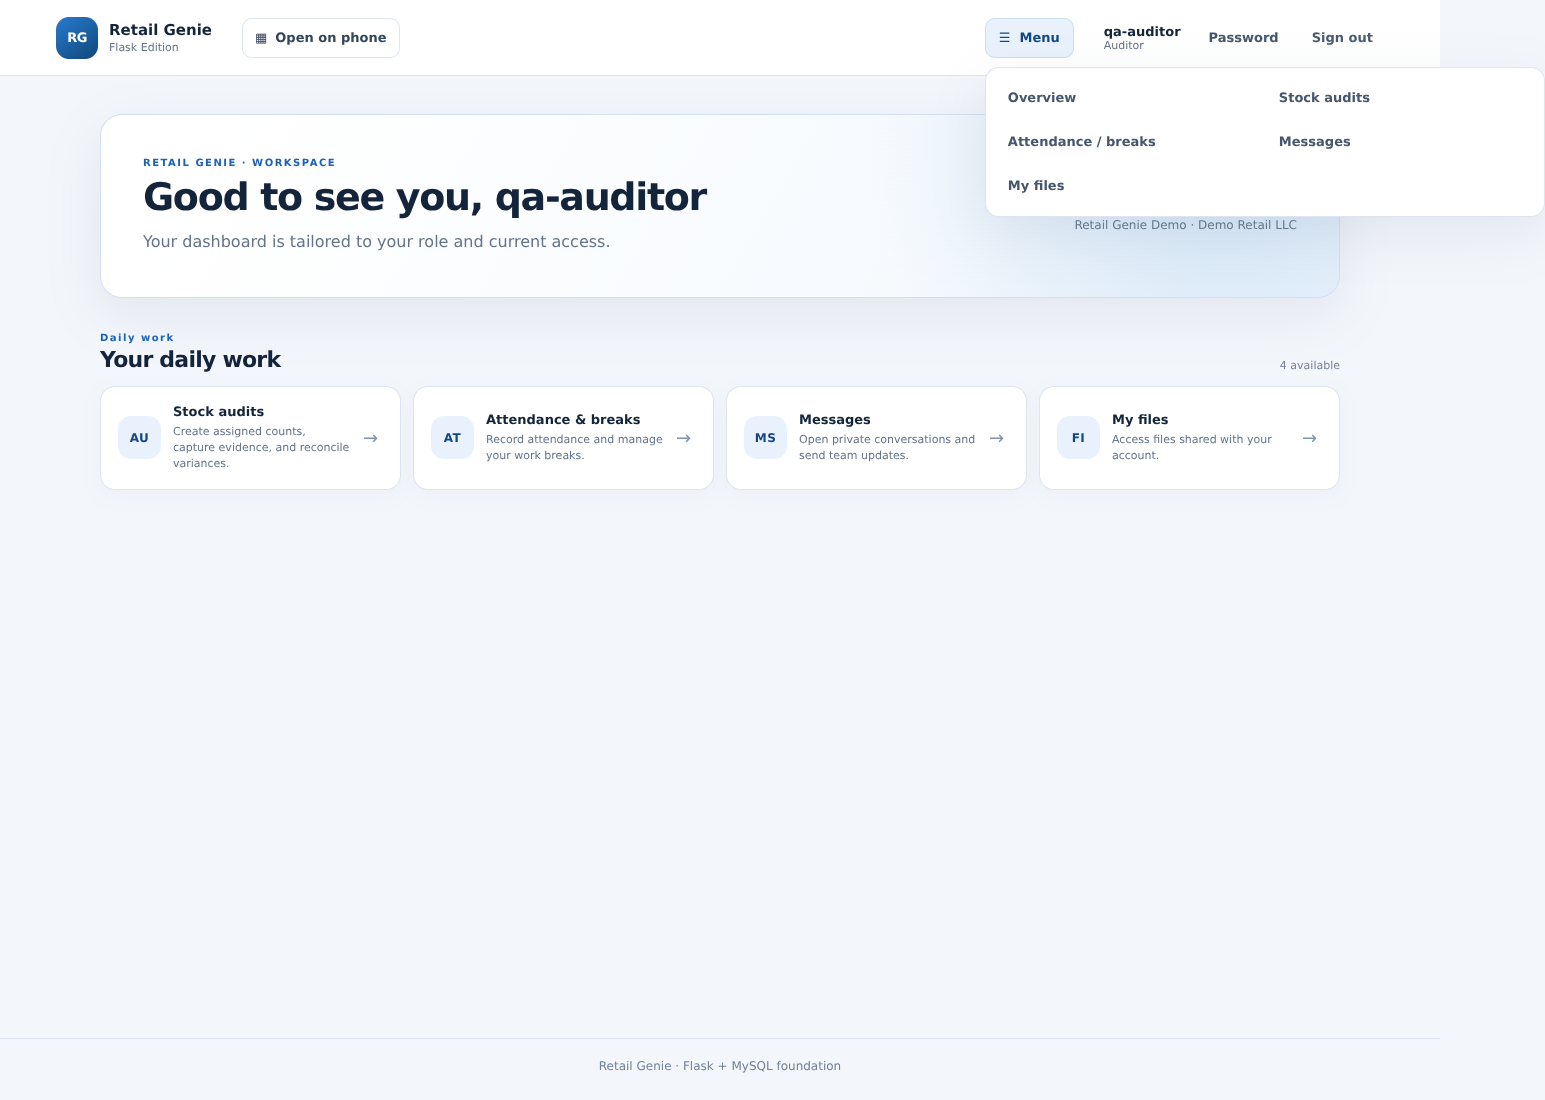
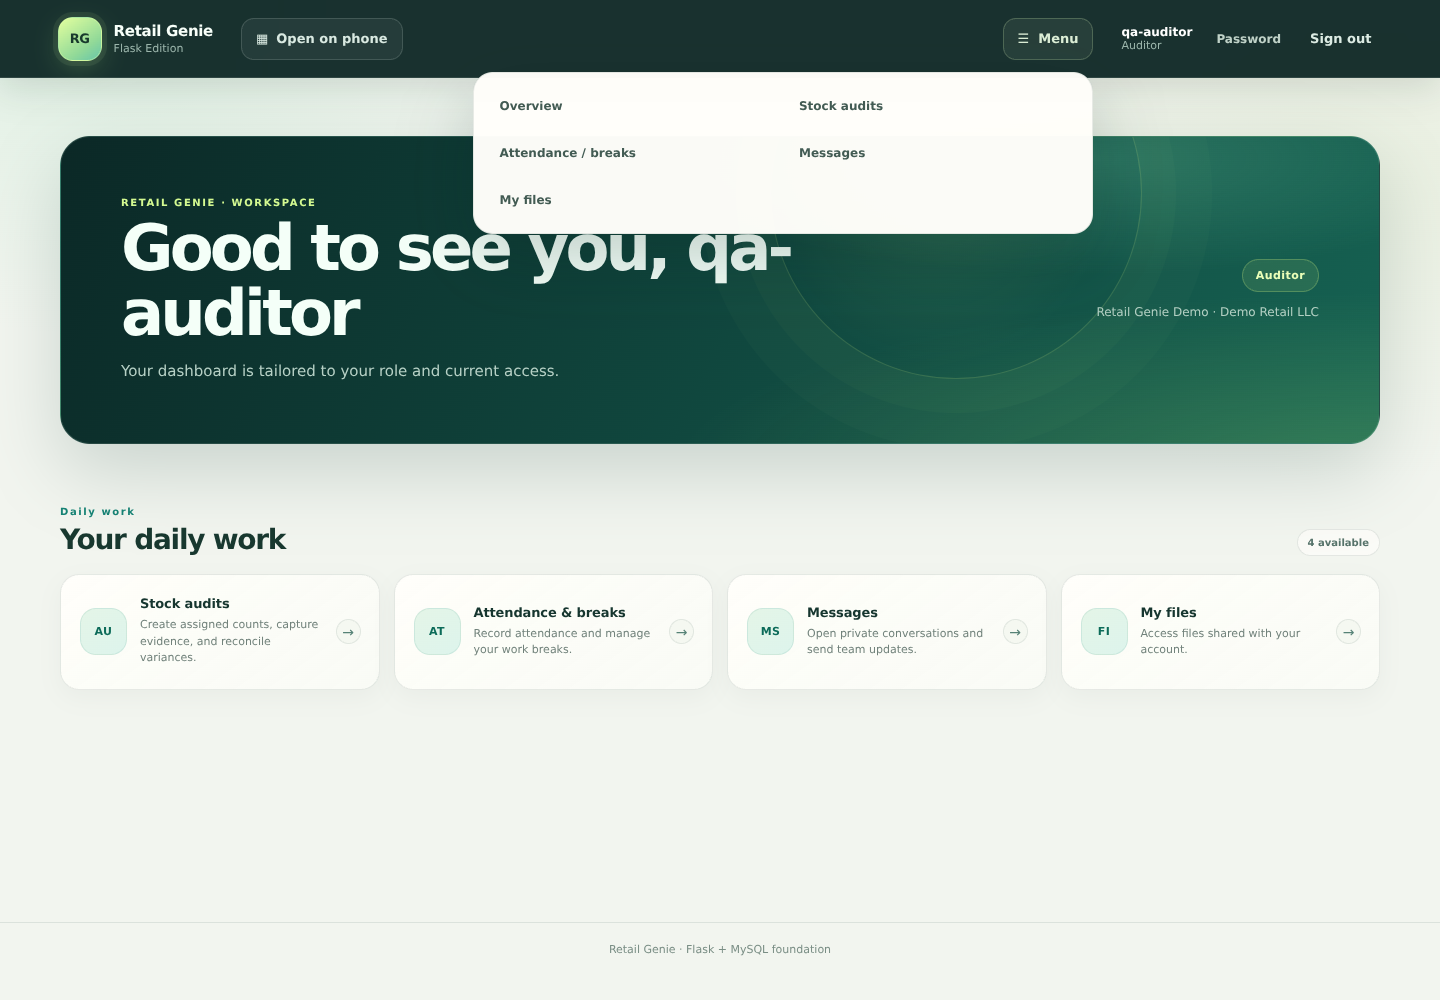
Refresh Retail Genie interface with modern forest theme

diff --git a/Retail Genie Final/retail_genie/static/css/app.css b/Retail Genie Final/retail_genie/static/css/app.css
@@ -1,20 +1,20 @@
 /* The UI deliberately uses local/system fonts and static assets only: no Node build and no CDN dependency. */
 :root {
   color-scheme: light;
-  --ink: #14243b;
-  --muted: #63738a;
-  --line: #dce5f0;
-  --surface: #ffffff;
-  --canvas: #f3f6fb;
-  --blue: #1d62b3;
-  --blue-dark: #14477f;
-  --blue-pale: #e9f2fc;
-  --green: #16845b;
-  --green-pale: #e7f6ee;
-  --red: #ba3840;
-  --red-pale: #fff0f0;
-  --shadow: 0 18px 55px rgba(17, 44, 77, .08);
-  font-family: "Segoe UI", Arial, sans-serif;
+  --ink: #132725;
+  --muted: #61736f;
+  --line: rgba(19, 55, 49, .13);
+  --surface: #fffefa;
+  --canvas: #f2f5ef;
+  --blue: #147b6d;
+  --blue-dark: #0d554d;
+  --blue-pale: #e2f4ed;
+  --green: #4e8d2f;
+  --green-pale: #edf7df;
+  --red: #b83c4a;
+  --red-pale: #fff0ef;
+  --shadow: 0 22px 70px rgba(20, 54, 47, .09);
+  font-family: "Segoe UI Variable", "Aptos", "Inter", "Segoe UI", sans-serif;
 }
 
 * { box-sizing: border-box; }
@@ -184,6 +184,7 @@ td form { margin: 0; }
 }
 @media (max-width: 600px) {
   .topbar { flex-wrap: wrap; gap: 7px 12px; padding: 11px 16px; }
+  .app-qr { display: none; }
   .brand { margin-right: auto; }
   .nav-menu { order: 3; width: 100%; margin: 0; }
   .nav-menu[open] .main-nav { position: static; grid-template-columns: 1fr; width: 100%; max-height: 55vh; margin-top: 8px; padding: 6px; box-shadow: none; }
@@ -397,4 +398,170 @@ td form { margin: 0; }
   .nav-menu[open] .main-nav { grid-template-columns: 1fr; }
   .workspace-card { min-height: 92px; padding: 13px; }
   .workspace-card-grid { grid-template-columns: minmax(0, 1fr); }
+}
+
+/* Retail Genie 2026 visual refresh — calm mineral neutrals, forest glass and citron accents. */
+:root {
+  --citron: #d9fa83;
+  --forest: #0d2c29;
+  --forest-soft: #174b43;
+  --mint: #c3f3df;
+  --shadow: 0 24px 72px rgba(15, 48, 42, .095);
+}
+
+::selection { color: #092c26; background: #d9fa83; }
+body {
+  color: var(--ink);
+  background:
+    radial-gradient(ellipse at 8% 0%, rgba(213, 238, 221, .7), transparent 28rem),
+    radial-gradient(ellipse at 94% 18%, rgba(226, 235, 213, .58), transparent 31rem),
+    var(--canvas);
+  background-attachment: fixed;
+  font-feature-settings: "ss01" on;
+  -webkit-font-smoothing: antialiased;
+}
+.topbar {
+  position: sticky;
+  top: 0;
+  z-index: 40;
+  min-height: 78px;
+  gap: clamp(14px, 2vw, 28px);
+  padding-inline: clamp(18px, 4vw, 64px);
+  color: #f2fff7;
+  border-bottom: 1px solid rgba(235, 255, 244, .11);
+  background: rgba(12, 37, 35, .94);
+  box-shadow: 0 10px 35px rgba(8, 30, 27, .13);
+  backdrop-filter: blur(20px) saturate(1.2);
+  -webkit-backdrop-filter: blur(20px) saturate(1.2);
+}
+.brand { color: #f2fff7; gap: 12px; }
+.brand:hover { color: #fff; }
+.brand-mark {
+  width: 44px; height: 44px; border: 1px solid rgba(219, 255, 164, .42);
+  border-radius: 15px; color: #183a2d;
+  background: linear-gradient(145deg, #e3ff9e, #91d998 68%, #66c5aa);
+  box-shadow: 0 0 0 5px rgba(198, 247, 153, .08), 0 8px 24px rgba(164, 226, 124, .2);
+}
+.brand strong { color: #f7fff9; font-size: 15px; letter-spacing: -.02em; }
+.brand small, .account-name small { color: #9bb5ab; }
+.app-qr-toggle, .nav-menu-toggle {
+  min-height: 42px; padding: 9px 14px; color: #d9e9e1;
+  border-color: rgba(228, 248, 237, .15); border-radius: 13px;
+  background: rgba(255, 255, 255, .055); transition: .18s ease;
+}
+.app-qr-toggle:hover, .nav-menu-toggle:hover, .app-qr[open] .app-qr-toggle, .nav-menu[open] .nav-menu-toggle {
+  color: #eaffb9; border-color: rgba(217, 250, 131, .4); background: rgba(217, 250, 131, .1);
+}
+.nav-menu[open] .main-nav {
+  top: calc(100% + 12px); left: auto; right: 0; width: min(620px, calc(100vw - 28px));
+  gap: 5px; padding: 12px; border: 1px solid rgba(19, 55, 49, .1); border-radius: 20px;
+  background: rgba(255, 254, 250, .98); box-shadow: 0 26px 70px rgba(6, 35, 30, .22);
+  backdrop-filter: blur(18px);
+}
+.main-nav a, .quiet-link { min-height: 42px; padding: 10px 13px; border-radius: 12px; color: #425b53; font-size: 12px; }
+.main-nav a:hover, .quiet-link:hover { color: #0b564b; background: #e6f4e9; }
+.account-nav { gap: 5px; }
+.account-name { color: #fff; font-size: 12px; }
+.account-nav .quiet-link { color: #c0d2c8; }
+.account-nav .quiet-link:hover { color: #eaffb9; background: rgba(217, 250, 131, .1); }
+.account-nav .button-quiet { min-height: 38px; color: #dcebe3; border: 1px solid transparent; border-radius: 11px; }
+.account-nav .button-quiet:hover { color: #eaffb9; background: rgba(217, 250, 131, .1); }
+.app-qr-popover { border-color: rgba(19, 55, 49, .11); border-radius: 19px; box-shadow: 0 25px 70px rgba(6, 35, 30, .2); }
+.page-shell { width: min(1320px, calc(100% - 48px)); min-height: calc(100vh - 156px); padding: clamp(30px, 5vw, 58px) 0 76px; }
+.site-footer { color: #7a8e85; border-color: rgba(19, 55, 49, .1); font-size: 11px; }
+h1, h2, h3 { color: #16322d; letter-spacing: -.045em; }
+h1 { font-size: clamp(30px, 4vw, 44px); }
+.eyebrow { color: #168375; letter-spacing: .16em; }
+.card {
+  border-color: rgba(19, 55, 49, .1); border-radius: 20px;
+  background: rgba(255, 254, 250, .9); box-shadow: 0 12px 42px rgba(25, 57, 49, .055);
+  backdrop-filter: blur(8px);
+}
+.button { min-height: 42px; border-radius: 12px; transition: transform .18s ease, box-shadow .18s ease, background .18s ease; }
+.button:hover { transform: translateY(-2px); }
+.button-primary {
+  color: #f7fff9; border-color: #12685c;
+  background: linear-gradient(135deg, #158a75, #0f675c 78%);
+  box-shadow: 0 7px 18px rgba(14, 112, 95, .18);
+}
+.button-primary:hover { color: #fff; background: linear-gradient(135deg, #15967e, #0d5b52); box-shadow: 0 11px 25px rgba(14, 112, 95, .25); }
+.button-secondary { color: #0d6358; border-color: #c8e5d7; background: #e8f5ed; }
+.button-secondary:hover { color: #084c44; background: #daf0e3; }
+.control, .catalog-filter-form select, .catalog-filter-form input, .catalog-create-form .form-control {
+  min-height: 44px; border-color: rgba(19, 55, 49, .16); border-radius: 12px;
+  color: var(--ink); background: #fffefa; transition: border-color .16s ease, box-shadow .16s ease;
+}
+.control:focus, .catalog-filter-form select:focus, .catalog-filter-form input:focus, .catalog-create-form .form-control:focus {
+  border-color: #54b49a; box-shadow: 0 0 0 4px rgba(42, 160, 127, .12);
+}
+.flash { border-radius: 13px; box-shadow: 0 5px 18px rgba(18, 46, 39, .04); }
+.pill { border: 1px solid rgba(19, 55, 49, .06); }
+th { color: #70847b; }
+td { color: #344e46; }
+th, td { border-bottom-color: rgba(19, 55, 49, .08); }
+
+.workspace-hero {
+  position: relative; isolation: isolate; overflow: hidden;
+  min-height: 250px; margin-bottom: clamp(36px, 6vw, 62px); padding: clamp(28px, 5vw, 60px);
+  border: 1px solid rgba(195, 243, 223, .15); border-radius: 30px;
+  color: #f4fff8;
+  background:
+    radial-gradient(ellipse at 78% 7%, rgba(109, 202, 162, .28), transparent 29%),
+    radial-gradient(ellipse at 100% 110%, rgba(176, 236, 111, .21), transparent 38%),
+    linear-gradient(118deg, #0b2826 0%, #10473e 52%, #166353 100%);
+  box-shadow: 0 28px 75px rgba(10, 58, 48, .18);
+}
+.workspace-hero::after {
+  position: absolute; z-index: -1; top: -130px; right: 18%; width: 370px; height: 370px;
+  border: 1px solid rgba(217, 250, 131, .17); border-radius: 50%;
+  background: radial-gradient(circle at 45% 50%, rgba(217, 250, 131, .09), transparent 62%);
+  box-shadow: 0 0 0 34px rgba(217, 250, 131, .025), 0 0 0 70px rgba(217, 250, 131, .018);
+  content: ""; pointer-events: none;
+}
+.workspace-hero-copy, .workspace-context { position: relative; z-index: 1; }
+.workspace-hero .eyebrow { color: #d4fa91; }
+.workspace-hero h1 { max-width: 840px; margin-bottom: 12px; color: #f4fff8; font-size: clamp(37px, 5.2vw, 64px); line-height: 1.02; letter-spacing: -.06em; }
+.workspace-hero .muted { color: #b6d0c5; font-size: 15px; }
+.workspace-context { gap: 11px; max-width: 260px; }
+.workspace-role { padding: 9px 13px; color: #eaffb8; border: 1px solid rgba(217, 250, 131, .24); background: rgba(217, 250, 131, .1); font-size: 11px; letter-spacing: .04em; }
+.workspace-tenant { color: #b2cfc2; font-size: 12px; line-height: 1.5; }
+.workspace-section { margin-bottom: clamp(34px, 5vw, 55px); }
+.workspace-section-heading { align-items: end; margin-bottom: 18px; }
+.workspace-section-heading h2 { color: #18382f; font-size: clamp(22px, 2.5vw, 28px); }
+.workspace-section-heading .eyebrow { margin-bottom: 6px; }
+.workspace-count { padding: 7px 10px; color: #56736a; border: 1px solid rgba(19, 55, 49, .1); border-radius: 999px; background: rgba(255, 254, 250, .72); font-size: 10px; font-weight: 700; }
+.workspace-card-grid { grid-template-columns: repeat(auto-fit, minmax(min(100%, 280px), 1fr)); gap: 14px; }
+.workspace-card {
+  position: relative; overflow: hidden; grid-template-columns: 48px minmax(0, 1fr) 24px;
+  min-height: 116px; padding: 19px; border: 1px solid rgba(19, 55, 49, .1); border-radius: 19px;
+  color: var(--ink); background: linear-gradient(145deg, rgba(255, 254, 250, .98), rgba(250, 252, 246, .92));
+  box-shadow: 0 8px 24px rgba(25, 57, 49, .045);
+  transition: transform .2s cubic-bezier(.2,.8,.2,1), border-color .2s ease, box-shadow .2s ease, background .2s ease;
+}
+.workspace-card::before { position: absolute; inset: 0 auto 0 0; width: 3px; background: linear-gradient(#d9fa83, #57b990); opacity: 0; content: ""; transition: opacity .2s ease; }
+.workspace-card:hover { transform: translateY(-4px); border-color: rgba(25, 137, 110, .28); color: var(--ink); background: #fffefa; box-shadow: 0 18px 42px rgba(25, 80, 63, .12); text-decoration: none; }
+.workspace-card:hover::before { opacity: 1; }
+.workspace-card:focus-visible { outline: 3px solid rgba(41, 158, 126, .38); outline-offset: 3px; }
+.workspace-card-icon { width: 47px; height: 47px; border: 1px solid rgba(27, 130, 105, .1); border-radius: 16px; color: #0c6b59; background: linear-gradient(145deg, #e4f5e7, #ddf4ec); font-size: 11px; }
+.workspace-card-copy { gap: 6px; }
+.workspace-card-copy strong { color: #16362f; font-size: 13px; letter-spacing: -.01em; }
+.workspace-card-copy small { color: #71827b; font-size: 11px; line-height: 1.5; }
+.workspace-card-arrow { display: grid; place-items: center; width: 25px; height: 25px; border: 1px solid rgba(19, 55, 49, .09); border-radius: 50%; color: #568276; background: #f5f8f1; font-size: 14px; transition: .2s ease; }
+.workspace-card:hover .workspace-card-arrow { color: #173b30; border-color: #d9fa83; background: #d9fa83; transform: translateX(2px); }
+.workspace-empty { border-color: rgba(19, 55, 49, .1); border-radius: 24px; background: rgba(255, 254, 250, .9); }
+.auth-aside h1 { color: #173b32; }
+.auth-layout { gap: clamp(32px, 8vw, 120px); }
+.auth-card { border-radius: 24px; }
+@media (max-width: 700px) {
+  .topbar { min-height: 70px; }
+  .page-shell { width: min(100% - 28px, 720px); padding-top: 28px; }
+  .workspace-hero { min-height: 0; padding: 30px 25px; border-radius: 23px; }
+  .workspace-hero::after { top: -110px; right: -90px; width: 290px; height: 290px; }
+  .workspace-hero h1 { font-size: clamp(34px, 9vw, 48px); }
+  .workspace-context { max-width: none; }
+  .workspace-card-grid { grid-template-columns: 1fr; }
+  .workspace-card { min-height: 98px; }
+}
+@media (prefers-reduced-motion: reduce) {
+  *, *::before, *::after { scroll-behavior: auto !important; animation-duration: .01ms !important; animation-iteration-count: 1 !important; transition-duration: .01ms !important; }
 }

diff --git a/Retail Genie Final/retail_genie/templates/base.html b/Retail Genie Final/retail_genie/templates/base.html
@@ -3,9 +3,9 @@
 <head>
   <meta charset="utf-8">
   <meta name="viewport" content="width=device-width, initial-scale=1">
-  <meta name="theme-color" content="#123b70">
+  <meta name="theme-color" content="#102a28">
   <title>{% block title %}Retail Genie{% endblock %}</title>
-  <link rel="stylesheet" href="{{ url_for('static', filename='css/app.css') }}">
+  <link rel="stylesheet" href="{{ url_for('static', filename='css/app.css') }}?v=2026-10-23-refresh">
 </head>
 <body>
   <header class="topbar">

diff --git a/Retail Genie Final/README.md b/Retail Genie Final/README.md
@@ -25,9 +25,9 @@ The target database is MySQL 8.0.16 or newer with InnoDB. The supplied schema is
 
 ## UI previews
 
-These screenshots were captured from an isolated local browser preview using synthetic demo records. They are illustrative only and do **not** represent live-MySQL validation.
+The 2026 interface refresh uses a deep forest-glass header, mineral canvas, citron highlights, larger workspace typography, and responsive cards. Screenshots were recaptured from an isolated browser preview using synthetic demo records; they are illustrative only and do **not** represent live-MySQL validation.
 
-- [Dashboard](preview/dashboard.png)
+- [Dashboard — desktop](preview/dashboard.png) · [mobile](preview/dashboard-mobile.png)
 - [Sign-in — desktop](preview/login-desktop.png) · [mobile](preview/login-mobile.png)
 - [Products & inventory — desktop](preview/products-inventory.png) · [mobile](preview/products-mobile.png)
 - [Point of sale — initial view](preview/point-of-sale.png) · [open demo bill](preview/pos-demo-open-bill.png) · [settled demo invoice](preview/pos-demo-settled-invoice.png)

diff --git a/Retail Genie Final/preview/account-roles/README.md b/Retail Genie Final/preview/account-roles/README.md
@@ -1,6 +1,6 @@
 # Account-role access previews
 
-Captured at 1440 × 1100 from the local Flask preview using disposable synthetic data. Each image shows the signed-in role's dashboard and expanded navigation. The additional settings images show manager access and the super-admin company picker. No live or production data was used; these images are not live-MySQL validation.
+Captured at 1440 × 1000 from the local Flask preview using disposable synthetic data. Each image shows the signed-in role's dashboard and expanded navigation. The additional settings images show manager access and the super-admin company picker. No live or production data was used; these images are not live-MySQL validation.
 
 | Account type | Screenshot |
 |---|---|
